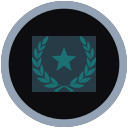
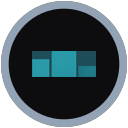
Abzeichen: Lorbeer und Schwerter durch lesbare Motive ersetzen
Beide Motive verschmolzen bei der tatsaechlichen Anzeigegroesse von 24 px zu
einer unlesbaren Flaeche:

- Der Lorbeerkranz umschloss einen Stern; die Kombination wurde zu einem
  gerundeten Klumpen. Ersetzt durch ein Siegerpodest, dessen gestufte
  Blockform auch klein als Silhouette erkennbar bleibt.
- Schwert und Schild ueberlagerten sich zu einem senkrechten Balken.
  Ersetzt durch ein einzelnes Schild, also eine geschlossene Flaeche.

Betrifft event_win_1, event_win_5 und t_1. Die Zuordnung Abzeichen zu Motiv
steht in der BADGES-Tabelle von process-badge-art.ts.

Ausserdem: push.ts nutzte fuer Benachrichtigungs-Icons weiterhin
OMALogo512.png (253 KB). Push-Icons werden je nach Plattform mit 48 bis 96 px
dargestellt, daher auf die 256er-Ableitung umgestellt.

Changed region(s): [[0.25, 0.2812, 0.75, 0.7188]]

diff --git a/scripts/process-badge-art.ts b/scripts/process-badge-art.ts
@@ -67,13 +67,17 @@ const BADGES: Record<string, [motif: string, tier: Tier]> = {
   event_10:    ["calendar", 3],
   event_25:    ["calendar", 4],
 
-  event_win_1: ["laurel", 2],
-  event_win_5: ["laurel", 3],
+  // Podest statt Lorbeerkranz: der Kranz umschloss einen Stern und verschmolz
+  // bei 24 px zu einem gerundeten Klumpen. Die gestufte Blockform bleibt lesbar.
+  event_win_1: ["podium", 2],
+  event_win_5: ["podium", 3],
 
   mvp_1:       ["star", 2],
   mvp_3:       ["star", 3],
 
-  t_1:         ["swords", 1],
+  // Einzelnes Schild statt Schwert-und-Schild: die überlagerten Formen wurden
+  // bei 24 px zu einem senkrechten Balken.
+  t_1:         ["shield", 1],
   t_win:       ["trophy", 3],
   t_win_5:     ["trophy", 4],
 

diff --git a/src/lib/push.ts b/src/lib/push.ts
@@ -26,7 +26,10 @@ async function sendToSubscriptions(
   const base = process.env.NEXTAUTH_URL ?? "https://oma-app.de";
   const data = JSON.stringify({
     ...payload,
-    icon:  `${base}/OMALogo512.png`,
+    // 256er-Ableitung statt OMALogo512.png (253 KB): Push-Icons werden je nach
+    // Plattform mit 48–96 px dargestellt, das Original wäre reine Ladezeit auf
+    // teils mobilen Verbindungen. Erzeugt von scripts/generate-brand-assets.ts.
+    icon:  `${base}/brand/logo-256.png`,
     badge: `${base}/badge.png`,
   });
   await Promise.allSettled(
